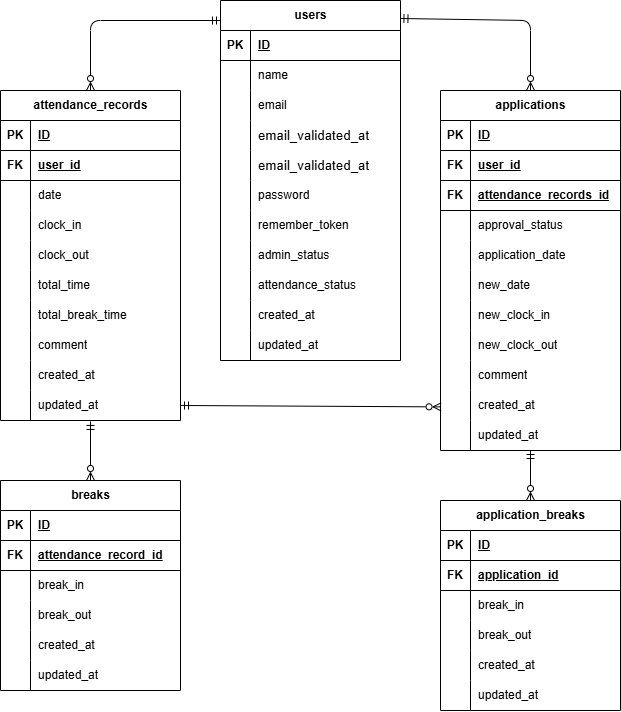
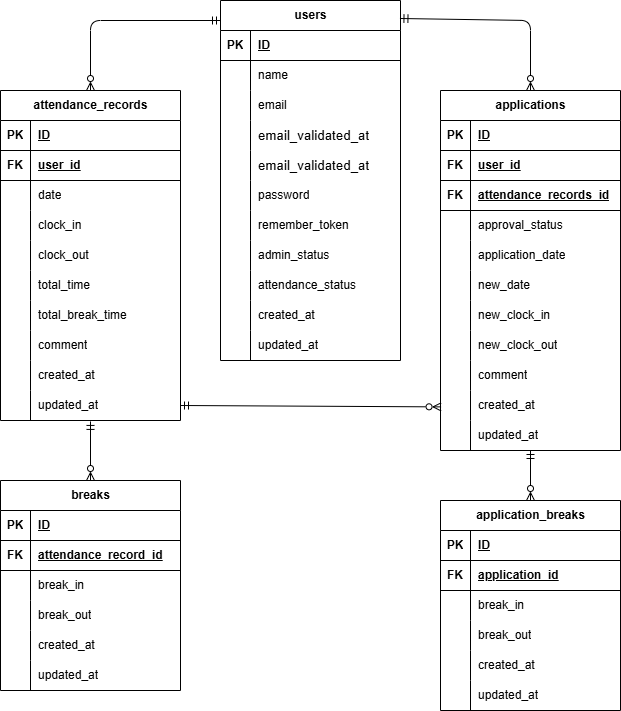
READMEの修正

diff --git a/README.md b/README.md
@@ -123,7 +123,7 @@ docker compose logs mysql
 
 ## ER図
 
-![ER図](docs/er.mmd)
+![ER図](docs/worklog.svg)
 
 ---
 
